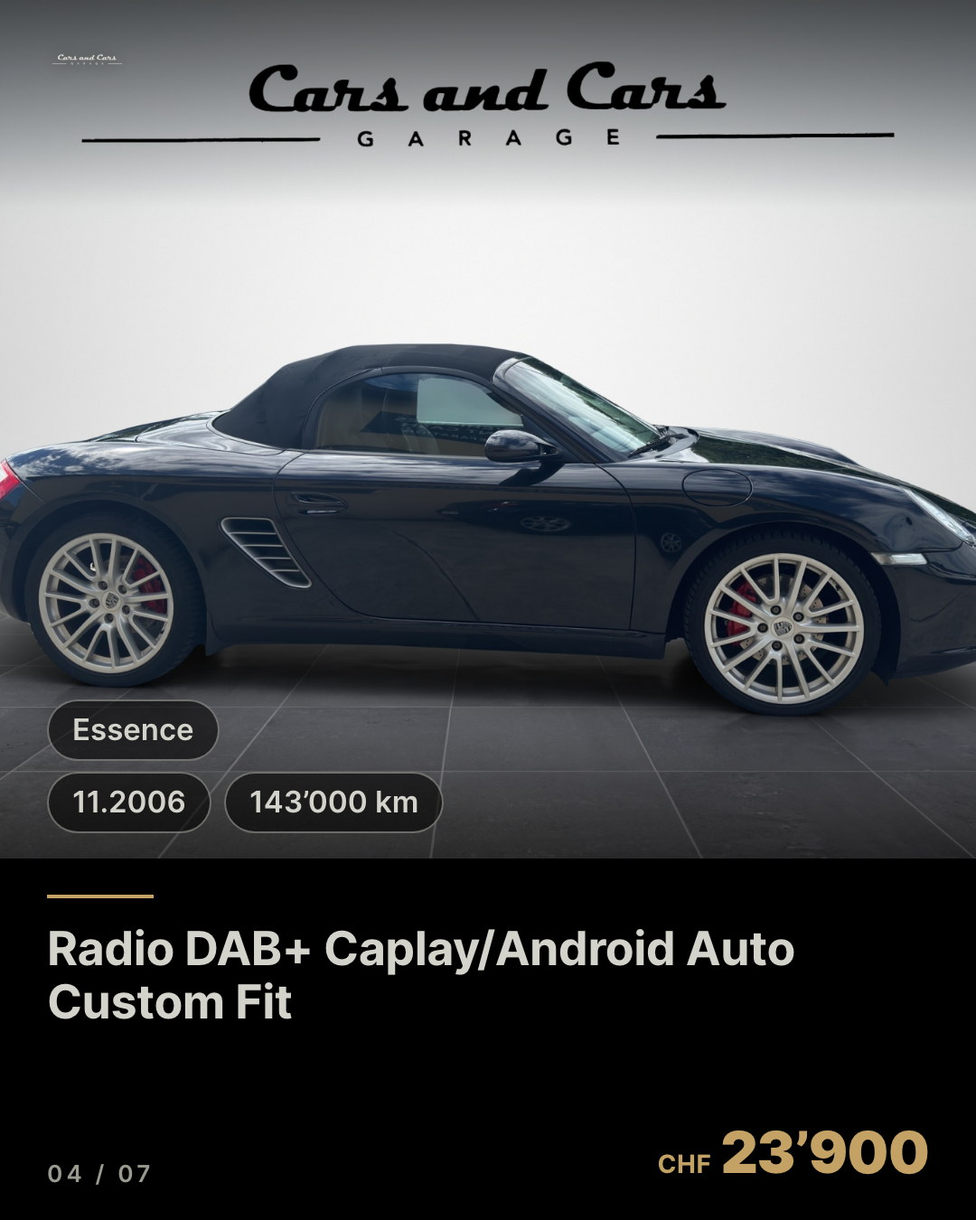
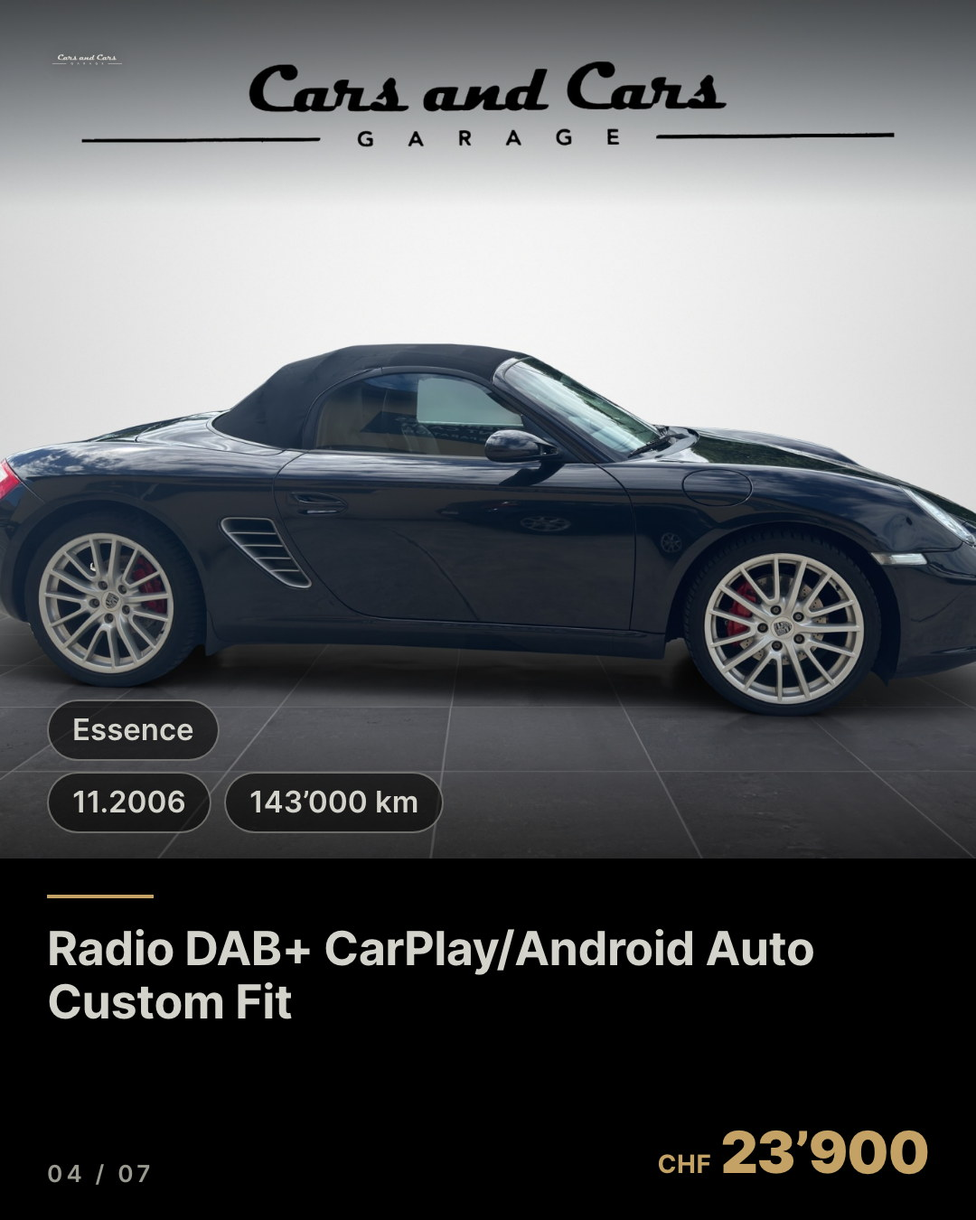
Aperçu : fautes des annonces corrigées dans les visuels (Troy→Treuil HUMBAUR, Caplay→CarPlay Boxster S)

Changed region(s): [[0.3972, 0.7467, 0.825, 0.8089]]

diff --git a/echeancier.html b/echeancier.html
@@ -7,6 +7,6 @@
 <link rel="stylesheet" href="posts.css">
 </head><body>
 <div class="page">
-<header class="entete-page"><p class="sur">Cars and Cars · Instagram et Facebook</p><h1>Le calendrier des publications</h1><p class="chapo">Dans l&#x27;ordre : chaque voiture part d&#x27;abord en carrousel (photos), puis en Reel (vidéo avec musique) le lendemain à midi. Tout part automatiquement.</p></header><nav class="nav"><a href="programme.html" class="">Les voitures</a><a href="echeancier.html" class="on">Le calendrier</a></nav><p class="maj">Page mise à jour le 17.09.2026 à 8h43</p><section class="chiffres"><div class="chiffre"><b>13</b><span>carrousels à venir</span></div><div class="chiffre"><b>13</b><span>Reels à venir</span></div><div class="chiffre"><b>3</b><span>voitures par semaine</span></div><div class="chiffre"><b>17.10</b><span>dernière date prévue</span></div></section><div class="sem">semaine du 14 septembre</div><div class="ligne passe"><div class="quand">mercredi 16 septembre<small>16h26</small></div><div class="quoi"><b>MINI Countryman John Cooper Works ALL4 Steptronic</b><span>CHF 31&#x27;900 · photos</span></div><span class="type t-publie">PUBLIÉ</span></div><div class="ligne passe"><div class="quand">mercredi 16 septembre<small>17h54</small></div><div class="quoi"><b>MINI Countryman John Cooper Works ALL4 Steptronic</b><span>CHF 31&#x27;900 · vidéo avec musique</span></div><span class="type t-publie">PUBLIÉ</span></div><div class="ligne"><div class="quand">vendredi 18 septembre<small>18h00</small></div><div class="quoi"><b>Humbaur HUT3500</b><span>CHF 8&#x27;500 au lieu de CHF 9&#x27;500 · photos</span></div><span class="type t-baisse">BAISSE DE PRIX</span></div><div class="ligne"><div class="quand">samedi 19 septembre<small>12h00</small></div><div class="quoi"><b>Humbaur HUT3500</b><span>CHF 8&#x27;500 au lieu de CHF 9&#x27;500 · vidéo avec musique</span></div><span class="type t-reel">REEL</span></div><div class="sem">semaine du 21 septembre</div><div class="ligne"><div class="quand">lundi 21 septembre<small>9h00</small></div><div class="quoi"><b>Alfa Romeo Stelvio 2.9 V6 Quadrifoglio Q4 Automatic</b><span>CHF 38&#x27;900 · photos</span></div><span class="type t-carrousel">CARROUSEL</span></div><div class="ligne"><div class="quand">mardi 22 septembre<small>12h00</small></div><div class="quoi"><b>Alfa Romeo Stelvio 2.9 V6 Quadrifoglio Q4 Automatic</b><span>CHF 38&#x27;900 · vidéo avec musique</span></div><span class="type t-reel">REEL</span></div><div class="ligne"><div class="quand">mercredi 23 septembre<small>18h00</small></div><div class="quoi"><b>Renault Espace 1.6 dCi Intens EDC</b><span>CHF 13&#x27;900 · photos</span></div><span class="type t-carrousel">CARROUSEL</span></div><div class="ligne"><div class="quand">jeudi 24 septembre<small>12h00</small></div><div class="quoi"><b>Renault Espace 1.6 dCi Intens EDC</b><span>CHF 13&#x27;900 · vidéo avec musique</span></div><span class="type t-reel">REEL</span></div><div class="ligne"><div class="quand">vendredi 25 septembre<small>18h00</small></div><div class="quoi"><b>Porsche Macan GTS PDK</b><span>CHF 27&#x27;500 · photos</span></div><span class="type t-carrousel">CARROUSEL</span></div><div class="ligne"><div class="quand">samedi 26 septembre<small>12h00</small></div><div class="quoi"><b>Porsche Macan GTS PDK</b><span>CHF 27&#x27;500 · vidéo avec musique</span></div><span class="type t-reel">REEL</span></div><div class="sem">semaine du 28 septembre</div><div class="ligne"><div class="quand">lundi 28 septembre<small>9h00</small></div><div class="quoi"><b>Peugeot 208 1.2 PureTech Active</b><span>CHF 15&#x27;900 · photos</span></div><span class="type t-carrousel">CARROUSEL</span></div><div class="ligne"><div class="quand">mardi 29 septembre<small>12h00</small></div><div class="quoi"><b>Peugeot 208 1.2 PureTech Active</b><span>CHF 15&#x27;900 · vidéo avec musique</span></div><span class="type t-reel">REEL</span></div><div class="ligne"><div class="quand">mercredi 30 septembre<small>18h00</small></div><div class="quoi"><b>VW Käfer</b><span>CHF 24&#x27;900 · photos</span></div><span class="type t-carrousel">CARROUSEL</span></div><div class="ligne"><div class="quand">jeudi 1 octobre<small>12h00</small></div><div class="quoi"><b>VW Käfer</b><span>CHF 24&#x27;900 · vidéo avec musique</span></div><span class="type t-reel">REEL</span></div><div class="ligne"><div class="quand">vendredi 2 octobre<small>18h00</small></div><div class="quoi"><b>Saab 9-5 2.3t Vector</b><span>CHF 5&#x27;900 · photos</span></div><span class="type t-carrousel">CARROUSEL</span></div><div class="ligne"><div class="quand">samedi 3 octobre<small>12h00</small></div><div class="quoi"><b>Saab 9-5 2.3t Vector</b><span>CHF 5&#x27;900 · vidéo avec musique</span></div><span class="type t-reel">REEL</span></div><div class="sem">semaine du 5 octobre</div><div class="ligne"><div class="quand">lundi 5 octobre<small>9h00</small></div><div class="quoi"><b>Mercedes-Benz GLC 350 e AMG Line 4Matic 7G-Tronic</b><span>CHF 23&#x27;900 · photos</span></div><span class="type t-carrousel">CARROUSEL</span></div><div class="ligne"><div class="quand">mardi 6 octobre<small>12h00</small></div><div class="quoi"><b>Mercedes-Benz GLC 350 e AMG Line 4Matic 7G-Tronic</b><span>CHF 23&#x27;900 · vidéo avec musique</span></div><span class="type t-reel">REEL</span></div><div class="ligne"><div class="quand">mercredi 7 octobre<small>18h00</small></div><div class="quoi"><b>Opel Mokka 1.2 Direct Injection Turbo GS Line Aut.</b><span>CHF 14&#x27;500 · photos</span></div><span class="type t-carrousel">CARROUSEL</span></div><div class="ligne"><div class="quand">jeudi 8 octobre<small>12h00</small></div><div class="quoi"><b>Opel Mokka 1.2 Direct Injection Turbo GS Line Aut.</b><span>CHF 14&#x27;500 · vidéo avec musique</span></div><span class="type t-reel">REEL</span></div><div class="ligne"><div class="quand">vendredi 9 octobre<small>18h00</small></div><div class="quoi"><b>Porsche Boxster S 3.4</b><span>CHF 23&#x27;900 · photos</span></div><span class="type t-carrousel">CARROUSEL</span></div><div class="ligne"><div class="quand">samedi 10 octobre<small>12h00</small></div><div class="quoi"><b>Porsche Boxster S 3.4</b><span>CHF 23&#x27;900 · vidéo avec musique</span></div><span class="type t-reel">REEL</span></div><div class="sem">semaine du 12 octobre</div><div class="ligne"><div class="quand">lundi 12 octobre<small>9h00</small></div><div class="quoi"><b>Fiat Barchetta 1.8 ABS</b><span>CHF 4&#x27;900 · photos</span></div><span class="type t-carrousel">CARROUSEL</span></div><div class="ligne"><div class="quand">mardi 13 octobre<small>12h00</small></div><div class="quoi"><b>Fiat Barchetta 1.8 ABS</b><span>CHF 4&#x27;900 · vidéo avec musique</span></div><span class="type t-reel">REEL</span></div><div class="ligne"><div class="quand">mercredi 14 octobre<small>18h00</small></div><div class="quoi"><b>Land Rover Range Rover Evoque R-Dynamic P 300e AB AT8</b><span>CHF 24&#x27;900 · photos</span></div><span class="type t-carrousel">CARROUSEL</span></div><div class="ligne"><div class="quand">jeudi 15 octobre<small>12h00</small></div><div class="quoi"><b>Land Rover Range Rover Evoque R-Dynamic P 300e AB AT8</b><span>CHF 24&#x27;900 · vidéo avec musique</span></div><span class="type t-reel">REEL</span></div><div class="ligne"><div class="quand">vendredi 16 octobre<small>18h00</small></div><div class="quoi"><b>Fiat 595 1.4 16V Turbo Abarth Competizione Dualogic</b><span>CHF 24&#x27;900 · photos</span></div><span class="type t-carrousel">CARROUSEL</span></div><div class="ligne"><div class="quand">samedi 17 octobre<small>12h00</small></div><div class="quoi"><b>Fiat 595 1.4 16V Turbo Abarth Competizione Dualogic</b><span>CHF 24&#x27;900 · vidéo avec musique</span></div><span class="type t-reel">REEL</span></div><p class="pied">Page mise à jour le 17.09.2026 à 8h43 · calendrier du 16.09 à 18h14 · annonces AutoScout24 relevées le 16.09 à 18h26</p>
+<header class="entete-page"><p class="sur">Cars and Cars · Instagram et Facebook</p><h1>Le calendrier des publications</h1><p class="chapo">Dans l&#x27;ordre : chaque voiture part d&#x27;abord en carrousel (photos), puis en Reel (vidéo avec musique) le lendemain à midi. Tout part automatiquement.</p></header><nav class="nav"><a href="programme.html" class="">Les voitures</a><a href="echeancier.html" class="on">Le calendrier</a></nav><p class="maj">Page mise à jour le 17.09.2026 à 8h48</p><section class="chiffres"><div class="chiffre"><b>13</b><span>carrousels à venir</span></div><div class="chiffre"><b>13</b><span>Reels à venir</span></div><div class="chiffre"><b>3</b><span>voitures par semaine</span></div><div class="chiffre"><b>17.10</b><span>dernière date prévue</span></div></section><div class="sem">semaine du 14 septembre</div><div class="ligne passe"><div class="quand">mercredi 16 septembre<small>16h26</small></div><div class="quoi"><b>MINI Countryman John Cooper Works ALL4 Steptronic</b><span>CHF 31&#x27;900 · photos</span></div><span class="type t-publie">PUBLIÉ</span></div><div class="ligne passe"><div class="quand">mercredi 16 septembre<small>17h54</small></div><div class="quoi"><b>MINI Countryman John Cooper Works ALL4 Steptronic</b><span>CHF 31&#x27;900 · vidéo avec musique</span></div><span class="type t-publie">PUBLIÉ</span></div><div class="ligne"><div class="quand">vendredi 18 septembre<small>18h00</small></div><div class="quoi"><b>Humbaur HUT3500</b><span>CHF 8&#x27;500 au lieu de CHF 9&#x27;500 · photos</span></div><span class="type t-baisse">BAISSE DE PRIX</span></div><div class="ligne"><div class="quand">samedi 19 septembre<small>12h00</small></div><div class="quoi"><b>Humbaur HUT3500</b><span>CHF 8&#x27;500 au lieu de CHF 9&#x27;500 · vidéo avec musique</span></div><span class="type t-reel">REEL</span></div><div class="sem">semaine du 21 septembre</div><div class="ligne"><div class="quand">lundi 21 septembre<small>9h00</small></div><div class="quoi"><b>Alfa Romeo Stelvio 2.9 V6 Quadrifoglio Q4 Automatic</b><span>CHF 38&#x27;900 · photos</span></div><span class="type t-carrousel">CARROUSEL</span></div><div class="ligne"><div class="quand">mardi 22 septembre<small>12h00</small></div><div class="quoi"><b>Alfa Romeo Stelvio 2.9 V6 Quadrifoglio Q4 Automatic</b><span>CHF 38&#x27;900 · vidéo avec musique</span></div><span class="type t-reel">REEL</span></div><div class="ligne"><div class="quand">mercredi 23 septembre<small>18h00</small></div><div class="quoi"><b>Renault Espace 1.6 dCi Intens EDC</b><span>CHF 13&#x27;900 · photos</span></div><span class="type t-carrousel">CARROUSEL</span></div><div class="ligne"><div class="quand">jeudi 24 septembre<small>12h00</small></div><div class="quoi"><b>Renault Espace 1.6 dCi Intens EDC</b><span>CHF 13&#x27;900 · vidéo avec musique</span></div><span class="type t-reel">REEL</span></div><div class="ligne"><div class="quand">vendredi 25 septembre<small>18h00</small></div><div class="quoi"><b>Porsche Macan GTS PDK</b><span>CHF 27&#x27;500 · photos</span></div><span class="type t-carrousel">CARROUSEL</span></div><div class="ligne"><div class="quand">samedi 26 septembre<small>12h00</small></div><div class="quoi"><b>Porsche Macan GTS PDK</b><span>CHF 27&#x27;500 · vidéo avec musique</span></div><span class="type t-reel">REEL</span></div><div class="sem">semaine du 28 septembre</div><div class="ligne"><div class="quand">lundi 28 septembre<small>9h00</small></div><div class="quoi"><b>Peugeot 208 1.2 PureTech Active</b><span>CHF 15&#x27;900 · photos</span></div><span class="type t-carrousel">CARROUSEL</span></div><div class="ligne"><div class="quand">mardi 29 septembre<small>12h00</small></div><div class="quoi"><b>Peugeot 208 1.2 PureTech Active</b><span>CHF 15&#x27;900 · vidéo avec musique</span></div><span class="type t-reel">REEL</span></div><div class="ligne"><div class="quand">mercredi 30 septembre<small>18h00</small></div><div class="quoi"><b>VW Käfer</b><span>CHF 24&#x27;900 · photos</span></div><span class="type t-carrousel">CARROUSEL</span></div><div class="ligne"><div class="quand">jeudi 1 octobre<small>12h00</small></div><div class="quoi"><b>VW Käfer</b><span>CHF 24&#x27;900 · vidéo avec musique</span></div><span class="type t-reel">REEL</span></div><div class="ligne"><div class="quand">vendredi 2 octobre<small>18h00</small></div><div class="quoi"><b>Saab 9-5 2.3t Vector</b><span>CHF 5&#x27;900 · photos</span></div><span class="type t-carrousel">CARROUSEL</span></div><div class="ligne"><div class="quand">samedi 3 octobre<small>12h00</small></div><div class="quoi"><b>Saab 9-5 2.3t Vector</b><span>CHF 5&#x27;900 · vidéo avec musique</span></div><span class="type t-reel">REEL</span></div><div class="sem">semaine du 5 octobre</div><div class="ligne"><div class="quand">lundi 5 octobre<small>9h00</small></div><div class="quoi"><b>Mercedes-Benz GLC 350 e AMG Line 4Matic 7G-Tronic</b><span>CHF 23&#x27;900 · photos</span></div><span class="type t-carrousel">CARROUSEL</span></div><div class="ligne"><div class="quand">mardi 6 octobre<small>12h00</small></div><div class="quoi"><b>Mercedes-Benz GLC 350 e AMG Line 4Matic 7G-Tronic</b><span>CHF 23&#x27;900 · vidéo avec musique</span></div><span class="type t-reel">REEL</span></div><div class="ligne"><div class="quand">mercredi 7 octobre<small>18h00</small></div><div class="quoi"><b>Opel Mokka 1.2 Direct Injection Turbo GS Line Aut.</b><span>CHF 14&#x27;500 · photos</span></div><span class="type t-carrousel">CARROUSEL</span></div><div class="ligne"><div class="quand">jeudi 8 octobre<small>12h00</small></div><div class="quoi"><b>Opel Mokka 1.2 Direct Injection Turbo GS Line Aut.</b><span>CHF 14&#x27;500 · vidéo avec musique</span></div><span class="type t-reel">REEL</span></div><div class="ligne"><div class="quand">vendredi 9 octobre<small>18h00</small></div><div class="quoi"><b>Porsche Boxster S 3.4</b><span>CHF 23&#x27;900 · photos</span></div><span class="type t-carrousel">CARROUSEL</span></div><div class="ligne"><div class="quand">samedi 10 octobre<small>12h00</small></div><div class="quoi"><b>Porsche Boxster S 3.4</b><span>CHF 23&#x27;900 · vidéo avec musique</span></div><span class="type t-reel">REEL</span></div><div class="sem">semaine du 12 octobre</div><div class="ligne"><div class="quand">lundi 12 octobre<small>9h00</small></div><div class="quoi"><b>Fiat Barchetta 1.8 ABS</b><span>CHF 4&#x27;900 · photos</span></div><span class="type t-carrousel">CARROUSEL</span></div><div class="ligne"><div class="quand">mardi 13 octobre<small>12h00</small></div><div class="quoi"><b>Fiat Barchetta 1.8 ABS</b><span>CHF 4&#x27;900 · vidéo avec musique</span></div><span class="type t-reel">REEL</span></div><div class="ligne"><div class="quand">mercredi 14 octobre<small>18h00</small></div><div class="quoi"><b>Land Rover Range Rover Evoque R-Dynamic P 300e AB AT8</b><span>CHF 24&#x27;900 · photos</span></div><span class="type t-carrousel">CARROUSEL</span></div><div class="ligne"><div class="quand">jeudi 15 octobre<small>12h00</small></div><div class="quoi"><b>Land Rover Range Rover Evoque R-Dynamic P 300e AB AT8</b><span>CHF 24&#x27;900 · vidéo avec musique</span></div><span class="type t-reel">REEL</span></div><div class="ligne"><div class="quand">vendredi 16 octobre<small>18h00</small></div><div class="quoi"><b>Fiat 595 1.4 16V Turbo Abarth Competizione Dualogic</b><span>CHF 24&#x27;900 · photos</span></div><span class="type t-carrousel">CARROUSEL</span></div><div class="ligne"><div class="quand">samedi 17 octobre<small>12h00</small></div><div class="quoi"><b>Fiat 595 1.4 16V Turbo Abarth Competizione Dualogic</b><span>CHF 24&#x27;900 · vidéo avec musique</span></div><span class="type t-reel">REEL</span></div><p class="pied">Page mise à jour le 17.09.2026 à 8h48 · calendrier du 16.09 à 18h14 · annonces AutoScout24 relevées le 16.09 à 18h26</p>
 </div>
 </body></html>

diff --git a/index.html b/index.html
@@ -7,7 +7,7 @@
 <link rel="stylesheet" href="posts.css">
 </head><body>
 <div class="page">
-<header class="entete-page"><p class="sur">Cars and Cars · Instagram et Facebook</p><h1>Ce qui part sur Instagram et Facebook</h1><p class="chapo">Les voitures en vente partent toutes seules, aux dates indiquées : tu n&#x27;as rien à faire. Si un prix change ou si une annonce disparaît d&#x27;AutoScout24, rien ne part avec un prix faux et Stefano est prévenu.</p></header><nav class="nav"><a href="programme.html" class="on">Les voitures</a><a href="echeancier.html" class="">Le calendrier</a></nav><p class="maj">Page mise à jour le 17.09.2026 à 8h43</p><section class="chiffres"><div class="chiffre"><b>14</b><span>annonces en vente</span></div><div class="chiffre"><b>1</b><span>déjà publiée(s)</span></div><div class="chiffre"><b>13</b><span>programmées</span></div><div class="chiffre"><b>14</b><span>Reels prêts</span></div></section><p class="prochaine">Prochaine publication : <b>Baisse de prix · Humbaur HUT3500</b>, vendredi 18 septembre à 18h00.</p><main><article class="voiture" id="v20622081"><div class="tete"><span class="pastille p-publie">Publiée</span><h2>MINI Countryman John Cooper Works ALL4 Steptronic</h2><p class="prix">CHF 31&#x27;900</p><ul class="dates"><li class="fait"><b>Carrousel :</b> publié le 16.09</li><li class="fait"><b>Reel</b> publié le 16.09</li></ul></div><div class="bande"><div class="dia"><img src="img/20622081_MINI_Countryman_John_Cooper_Works___1_hero.jpg" alt="Image 1 sur 7 du carrousel" width="1080" height="1350" loading="eager"><span>1 / 7</span></div><div class="dia"><img src="img/20622081_MINI_Countryman_John_Cooper_Works___2_photo.jpg" alt="Image 2 sur 7 du carrousel" width="1080" height="1350" loading="eager"><span>2 / 7</span></div><div class="dia"><img src="img/20622081_MINI_Countryman_John_Cooper_Works___3_photo.jpg" alt="Image 3 sur 7 du carrousel" width="1080" height="1350" loading="lazy"><span>3 / 7</span></div><div class="dia"><img src="img/20622081_MINI_Countryman_John_Cooper_Works___4_photo.jpg" alt="Image 4 sur 7 du carrousel" width="1080" height="1350" loading="lazy"><span>4 / 7</span></div><div class="dia"><img src="img/20622081_MINI_Countryman_John_Cooper_Works___5_points_forts.jpg" alt="Image 5 sur 7 du carrousel" width="1080" height="1350" loading="lazy"><span>5 / 7</span></div><div class="dia"><img src="img/20622081_MINI_Countryman_John_Cooper_Works___6_technique.jpg" alt="Image 6 sur 7 du carrousel" width="1080" height="1350" loading="lazy"><span>6 / 7</span></div><div class="dia"><img src="img/20622081_MINI_Countryman_John_Cooper_Works___7_cta.jpg" alt="Image 7 sur 7 du carrousel" width="1080" height="1350" loading="lazy"><span>7 / 7</span></div></div><p class="glisser">7 images · faire glisser pour les voir toutes</p><div class="reel"><h3>Le Reel</h3><video controls playsinline preload="none" poster="affiches/reel_20622081.jpg" src="img/REEL_20622081__reel_20622081.mp4"></video><p>Musique : « Go Cart - Drop Mix », Kevin MacLeod (CC BY 4.0)</p></div><details class="texte"><summary>Texte publié avec les images</summary><div class="legende">🚗 MINI COUNTRYMAN — CHF 31&#x27;900
+<header class="entete-page"><p class="sur">Cars and Cars · Instagram et Facebook</p><h1>Ce qui part sur Instagram et Facebook</h1><p class="chapo">Les voitures en vente partent toutes seules, aux dates indiquées : tu n&#x27;as rien à faire. Si un prix change ou si une annonce disparaît d&#x27;AutoScout24, rien ne part avec un prix faux et Stefano est prévenu.</p></header><nav class="nav"><a href="programme.html" class="on">Les voitures</a><a href="echeancier.html" class="">Le calendrier</a></nav><p class="maj">Page mise à jour le 17.09.2026 à 8h48</p><section class="chiffres"><div class="chiffre"><b>14</b><span>annonces en vente</span></div><div class="chiffre"><b>1</b><span>déjà publiée(s)</span></div><div class="chiffre"><b>13</b><span>programmées</span></div><div class="chiffre"><b>14</b><span>Reels prêts</span></div></section><p class="prochaine">Prochaine publication : <b>Baisse de prix · Humbaur HUT3500</b>, vendredi 18 septembre à 18h00.</p><main><article class="voiture" id="v20622081"><div class="tete"><span class="pastille p-publie">Publiée</span><h2>MINI Countryman John Cooper Works ALL4 Steptronic</h2><p class="prix">CHF 31&#x27;900</p><ul class="dates"><li class="fait"><b>Carrousel :</b> publié le 16.09</li><li class="fait"><b>Reel</b> publié le 16.09</li></ul></div><div class="bande"><div class="dia"><img src="img/20622081_MINI_Countryman_John_Cooper_Works___1_hero.jpg" alt="Image 1 sur 7 du carrousel" width="1080" height="1350" loading="eager"><span>1 / 7</span></div><div class="dia"><img src="img/20622081_MINI_Countryman_John_Cooper_Works___2_photo.jpg" alt="Image 2 sur 7 du carrousel" width="1080" height="1350" loading="eager"><span>2 / 7</span></div><div class="dia"><img src="img/20622081_MINI_Countryman_John_Cooper_Works___3_photo.jpg" alt="Image 3 sur 7 du carrousel" width="1080" height="1350" loading="lazy"><span>3 / 7</span></div><div class="dia"><img src="img/20622081_MINI_Countryman_John_Cooper_Works___4_photo.jpg" alt="Image 4 sur 7 du carrousel" width="1080" height="1350" loading="lazy"><span>4 / 7</span></div><div class="dia"><img src="img/20622081_MINI_Countryman_John_Cooper_Works___5_points_forts.jpg" alt="Image 5 sur 7 du carrousel" width="1080" height="1350" loading="lazy"><span>5 / 7</span></div><div class="dia"><img src="img/20622081_MINI_Countryman_John_Cooper_Works___6_technique.jpg" alt="Image 6 sur 7 du carrousel" width="1080" height="1350" loading="lazy"><span>6 / 7</span></div><div class="dia"><img src="img/20622081_MINI_Countryman_John_Cooper_Works___7_cta.jpg" alt="Image 7 sur 7 du carrousel" width="1080" height="1350" loading="lazy"><span>7 / 7</span></div></div><p class="glisser">7 images · faire glisser pour les voir toutes</p><div class="reel"><h3>Le Reel</h3><video controls playsinline preload="none" poster="affiches/reel_20622081.jpg" src="img/REEL_20622081__reel_20622081.mp4"></video><p>Musique : « Go Cart - Drop Mix », Kevin MacLeod (CC BY 4.0)</p></div><details class="texte"><summary>Texte publié avec les images</summary><div class="legende">🚗 MINI COUNTRYMAN — CHF 31&#x27;900
 2022 · 63&#x27;700 km · Essence · Automatique
 
 Voiture FULL options - super état - De 1er main - Tous les services suivis - 2 jeux de pneus - Expertisée du jour - Garantie 12 mois
@@ -19,7 +19,7 @@ Chemin de Mon-Repos 1, 1033 Cheseaux-sur-Lausanne
 Humbaur HUT3500 — CHF 8&#x27;500 au lieu de CHF 9&#x27;500
 2017 · Remorque
 
-Remorque Basculante En parfait état expertisée - charge totale 3500 kg - Troy Electrique avec télécommande
+Remorque Basculante En parfait état expertisée - charge totale 3500 kg - Treuil Electrique avec télécommande
 
 👉 Visite sur rendez-vous · 021 731 38 70
 Chemin de Mon-Repos 1, 1033 Cheseaux-sur-Lausanne
@@ -89,7 +89,7 @@ Chemin de Mon-Repos 1, 1033 Cheseaux-sur-Lausanne
 #carsandcars #occasion #garage #cheseaux #lausanne #opel</div></details></article><article class="voiture" id="v20548427"><div class="tete"><span class="pastille p-programme">Programmée</span><h2>Porsche Boxster S 3.4</h2><p class="prix">CHF 23&#x27;900</p><ul class="dates"><li class=""><b>Carrousel :</b> publication automatique le vendredi 9 octobre à 18h00</li><li class=""><b>Reel</b> le samedi 10 octobre à 12h00</li></ul></div><div class="bande"><div class="dia"><img src="img/20548427_PORSCHE_Boxster_S_3_4__1_hero.jpg" alt="Image 1 sur 7 du carrousel" width="1080" height="1350" loading="eager"><span>1 / 7</span></div><div class="dia"><img src="img/20548427_PORSCHE_Boxster_S_3_4__2_photo.jpg" alt="Image 2 sur 7 du carrousel" width="1080" height="1350" loading="eager"><span>2 / 7</span></div><div class="dia"><img src="img/20548427_PORSCHE_Boxster_S_3_4__3_photo.jpg" alt="Image 3 sur 7 du carrousel" width="1080" height="1350" loading="lazy"><span>3 / 7</span></div><div class="dia"><img src="img/20548427_PORSCHE_Boxster_S_3_4__4_photo.jpg" alt="Image 4 sur 7 du carrousel" width="1080" height="1350" loading="lazy"><span>4 / 7</span></div><div class="dia"><img src="img/20548427_PORSCHE_Boxster_S_3_4__5_points_forts.jpg" alt="Image 5 sur 7 du carrousel" width="1080" height="1350" loading="lazy"><span>5 / 7</span></div><div class="dia"><img src="img/20548427_PORSCHE_Boxster_S_3_4__6_technique.jpg" alt="Image 6 sur 7 du carrousel" width="1080" height="1350" loading="lazy"><span>6 / 7</span></div><div class="dia"><img src="img/20548427_PORSCHE_Boxster_S_3_4__7_cta.jpg" alt="Image 7 sur 7 du carrousel" width="1080" height="1350" loading="lazy"><span>7 / 7</span></div></div><p class="glisser">7 images · faire glisser pour les voir toutes</p><div class="reel"><h3>Le Reel</h3><video controls playsinline preload="none" poster="affiches/reel_20548427.jpg" src="img/REEL_20548427__reel_20548427.mp4"></video><p>Musique : « Riptide », Kevin MacLeod (CC BY 4.0)</p></div><details class="texte"><summary>Texte publié avec les images</summary><div class="legende">🚗 Porsche Boxster S 3.4 — CHF 23&#x27;900
 2006 · 143&#x27;000 km · Essence · Manuelle
 
-Voiture en super état - Services suivis - Expertisée du Jour - Radio DAB+ Caplay/Android Auto Custom Fit
+Voiture en super état - Services suivis - Expertisée du Jour - Radio DAB+ CarPlay/Android Auto Custom Fit
 
 👉 Essai sur rendez-vous · 021 731 38 70
 Chemin de Mon-Repos 1, 1033 Cheseaux-sur-Lausanne
@@ -118,6 +118,6 @@ Voiture à l&#x27;état de neuf - Service suivis - expertisée du jour - Garanti
 👉 Essai sur rendez-vous · 021 731 38 70
 Chemin de Mon-Repos 1, 1033 Cheseaux-sur-Lausanne
 
-#carsandcars #occasion #garage #cheseaux #lausanne #fiat</div></details></article></main><section class="hors"><h2>Hors vente : rien ne part sans ton accord</h2><p>L&#x27;atelier, une sortie, une pièce d&#x27;exception : ces publications-là ne partent jamais toutes seules. Stefano te demandera ton avis avant. Une photo, une idée, une remarque : réponds-lui simplement comme d&#x27;habitude.</p></section><p class="pied">Page mise à jour le 17.09.2026 à 8h43 · calendrier du 16.09 à 18h14 · annonces AutoScout24 relevées le 16.09 à 18h26</p>
+#carsandcars #occasion #garage #cheseaux #lausanne #fiat</div></details></article></main><section class="hors"><h2>Hors vente : rien ne part sans ton accord</h2><p>L&#x27;atelier, une sortie, une pièce d&#x27;exception : ces publications-là ne partent jamais toutes seules. Stefano te demandera ton avis avant. Une photo, une idée, une remarque : réponds-lui simplement comme d&#x27;habitude.</p></section><p class="pied">Page mise à jour le 17.09.2026 à 8h48 · calendrier du 16.09 à 18h14 · annonces AutoScout24 relevées le 16.09 à 18h26</p>
 </div>
 </body></html>

diff --git a/programme.html b/programme.html
@@ -7,7 +7,7 @@
 <link rel="stylesheet" href="posts.css">
 </head><body>
 <div class="page">
-<header class="entete-page"><p class="sur">Cars and Cars · Instagram et Facebook</p><h1>Ce qui part sur Instagram et Facebook</h1><p class="chapo">Les voitures en vente partent toutes seules, aux dates indiquées : tu n&#x27;as rien à faire. Si un prix change ou si une annonce disparaît d&#x27;AutoScout24, rien ne part avec un prix faux et Stefano est prévenu.</p></header><nav class="nav"><a href="programme.html" class="on">Les voitures</a><a href="echeancier.html" class="">Le calendrier</a></nav><p class="maj">Page mise à jour le 17.09.2026 à 8h43</p><section class="chiffres"><div class="chiffre"><b>14</b><span>annonces en vente</span></div><div class="chiffre"><b>1</b><span>déjà publiée(s)</span></div><div class="chiffre"><b>13</b><span>programmées</span></div><div class="chiffre"><b>14</b><span>Reels prêts</span></div></section><p class="prochaine">Prochaine publication : <b>Baisse de prix · Humbaur HUT3500</b>, vendredi 18 septembre à 18h00.</p><main><article class="voiture" id="v20622081"><div class="tete"><span class="pastille p-publie">Publiée</span><h2>MINI Countryman John Cooper Works ALL4 Steptronic</h2><p class="prix">CHF 31&#x27;900</p><ul class="dates"><li class="fait"><b>Carrousel :</b> publié le 16.09</li><li class="fait"><b>Reel</b> publié le 16.09</li></ul></div><div class="bande"><div class="dia"><img src="img/20622081_MINI_Countryman_John_Cooper_Works___1_hero.jpg" alt="Image 1 sur 7 du carrousel" width="1080" height="1350" loading="eager"><span>1 / 7</span></div><div class="dia"><img src="img/20622081_MINI_Countryman_John_Cooper_Works___2_photo.jpg" alt="Image 2 sur 7 du carrousel" width="1080" height="1350" loading="eager"><span>2 / 7</span></div><div class="dia"><img src="img/20622081_MINI_Countryman_John_Cooper_Works___3_photo.jpg" alt="Image 3 sur 7 du carrousel" width="1080" height="1350" loading="lazy"><span>3 / 7</span></div><div class="dia"><img src="img/20622081_MINI_Countryman_John_Cooper_Works___4_photo.jpg" alt="Image 4 sur 7 du carrousel" width="1080" height="1350" loading="lazy"><span>4 / 7</span></div><div class="dia"><img src="img/20622081_MINI_Countryman_John_Cooper_Works___5_points_forts.jpg" alt="Image 5 sur 7 du carrousel" width="1080" height="1350" loading="lazy"><span>5 / 7</span></div><div class="dia"><img src="img/20622081_MINI_Countryman_John_Cooper_Works___6_technique.jpg" alt="Image 6 sur 7 du carrousel" width="1080" height="1350" loading="lazy"><span>6 / 7</span></div><div class="dia"><img src="img/20622081_MINI_Countryman_John_Cooper_Works___7_cta.jpg" alt="Image 7 sur 7 du carrousel" width="1080" height="1350" loading="lazy"><span>7 / 7</span></div></div><p class="glisser">7 images · faire glisser pour les voir toutes</p><div class="reel"><h3>Le Reel</h3><video controls playsinline preload="none" poster="affiches/reel_20622081.jpg" src="img/REEL_20622081__reel_20622081.mp4"></video><p>Musique : « Go Cart - Drop Mix », Kevin MacLeod (CC BY 4.0)</p></div><details class="texte"><summary>Texte publié avec les images</summary><div class="legende">🚗 MINI COUNTRYMAN — CHF 31&#x27;900
+<header class="entete-page"><p class="sur">Cars and Cars · Instagram et Facebook</p><h1>Ce qui part sur Instagram et Facebook</h1><p class="chapo">Les voitures en vente partent toutes seules, aux dates indiquées : tu n&#x27;as rien à faire. Si un prix change ou si une annonce disparaît d&#x27;AutoScout24, rien ne part avec un prix faux et Stefano est prévenu.</p></header><nav class="nav"><a href="programme.html" class="on">Les voitures</a><a href="echeancier.html" class="">Le calendrier</a></nav><p class="maj">Page mise à jour le 17.09.2026 à 8h48</p><section class="chiffres"><div class="chiffre"><b>14</b><span>annonces en vente</span></div><div class="chiffre"><b>1</b><span>déjà publiée(s)</span></div><div class="chiffre"><b>13</b><span>programmées</span></div><div class="chiffre"><b>14</b><span>Reels prêts</span></div></section><p class="prochaine">Prochaine publication : <b>Baisse de prix · Humbaur HUT3500</b>, vendredi 18 septembre à 18h00.</p><main><article class="voiture" id="v20622081"><div class="tete"><span class="pastille p-publie">Publiée</span><h2>MINI Countryman John Cooper Works ALL4 Steptronic</h2><p class="prix">CHF 31&#x27;900</p><ul class="dates"><li class="fait"><b>Carrousel :</b> publié le 16.09</li><li class="fait"><b>Reel</b> publié le 16.09</li></ul></div><div class="bande"><div class="dia"><img src="img/20622081_MINI_Countryman_John_Cooper_Works___1_hero.jpg" alt="Image 1 sur 7 du carrousel" width="1080" height="1350" loading="eager"><span>1 / 7</span></div><div class="dia"><img src="img/20622081_MINI_Countryman_John_Cooper_Works___2_photo.jpg" alt="Image 2 sur 7 du carrousel" width="1080" height="1350" loading="eager"><span>2 / 7</span></div><div class="dia"><img src="img/20622081_MINI_Countryman_John_Cooper_Works___3_photo.jpg" alt="Image 3 sur 7 du carrousel" width="1080" height="1350" loading="lazy"><span>3 / 7</span></div><div class="dia"><img src="img/20622081_MINI_Countryman_John_Cooper_Works___4_photo.jpg" alt="Image 4 sur 7 du carrousel" width="1080" height="1350" loading="lazy"><span>4 / 7</span></div><div class="dia"><img src="img/20622081_MINI_Countryman_John_Cooper_Works___5_points_forts.jpg" alt="Image 5 sur 7 du carrousel" width="1080" height="1350" loading="lazy"><span>5 / 7</span></div><div class="dia"><img src="img/20622081_MINI_Countryman_John_Cooper_Works___6_technique.jpg" alt="Image 6 sur 7 du carrousel" width="1080" height="1350" loading="lazy"><span>6 / 7</span></div><div class="dia"><img src="img/20622081_MINI_Countryman_John_Cooper_Works___7_cta.jpg" alt="Image 7 sur 7 du carrousel" width="1080" height="1350" loading="lazy"><span>7 / 7</span></div></div><p class="glisser">7 images · faire glisser pour les voir toutes</p><div class="reel"><h3>Le Reel</h3><video controls playsinline preload="none" poster="affiches/reel_20622081.jpg" src="img/REEL_20622081__reel_20622081.mp4"></video><p>Musique : « Go Cart - Drop Mix », Kevin MacLeod (CC BY 4.0)</p></div><details class="texte"><summary>Texte publié avec les images</summary><div class="legende">🚗 MINI COUNTRYMAN — CHF 31&#x27;900
 2022 · 63&#x27;700 km · Essence · Automatique
 
 Voiture FULL options - super état - De 1er main - Tous les services suivis - 2 jeux de pneus - Expertisée du jour - Garantie 12 mois
@@ -19,7 +19,7 @@ Chemin de Mon-Repos 1, 1033 Cheseaux-sur-Lausanne
 Humbaur HUT3500 — CHF 8&#x27;500 au lieu de CHF 9&#x27;500
 2017 · Remorque
 
-Remorque Basculante En parfait état expertisée - charge totale 3500 kg - Troy Electrique avec télécommande
+Remorque Basculante En parfait état expertisée - charge totale 3500 kg - Treuil Electrique avec télécommande
 
 👉 Visite sur rendez-vous · 021 731 38 70
 Chemin de Mon-Repos 1, 1033 Cheseaux-sur-Lausanne
@@ -89,7 +89,7 @@ Chemin de Mon-Repos 1, 1033 Cheseaux-sur-Lausanne
 #carsandcars #occasion #garage #cheseaux #lausanne #opel</div></details></article><article class="voiture" id="v20548427"><div class="tete"><span class="pastille p-programme">Programmée</span><h2>Porsche Boxster S 3.4</h2><p class="prix">CHF 23&#x27;900</p><ul class="dates"><li class=""><b>Carrousel :</b> publication automatique le vendredi 9 octobre à 18h00</li><li class=""><b>Reel</b> le samedi 10 octobre à 12h00</li></ul></div><div class="bande"><div class="dia"><img src="img/20548427_PORSCHE_Boxster_S_3_4__1_hero.jpg" alt="Image 1 sur 7 du carrousel" width="1080" height="1350" loading="eager"><span>1 / 7</span></div><div class="dia"><img src="img/20548427_PORSCHE_Boxster_S_3_4__2_photo.jpg" alt="Image 2 sur 7 du carrousel" width="1080" height="1350" loading="eager"><span>2 / 7</span></div><div class="dia"><img src="img/20548427_PORSCHE_Boxster_S_3_4__3_photo.jpg" alt="Image 3 sur 7 du carrousel" width="1080" height="1350" loading="lazy"><span>3 / 7</span></div><div class="dia"><img src="img/20548427_PORSCHE_Boxster_S_3_4__4_photo.jpg" alt="Image 4 sur 7 du carrousel" width="1080" height="1350" loading="lazy"><span>4 / 7</span></div><div class="dia"><img src="img/20548427_PORSCHE_Boxster_S_3_4__5_points_forts.jpg" alt="Image 5 sur 7 du carrousel" width="1080" height="1350" loading="lazy"><span>5 / 7</span></div><div class="dia"><img src="img/20548427_PORSCHE_Boxster_S_3_4__6_technique.jpg" alt="Image 6 sur 7 du carrousel" width="1080" height="1350" loading="lazy"><span>6 / 7</span></div><div class="dia"><img src="img/20548427_PORSCHE_Boxster_S_3_4__7_cta.jpg" alt="Image 7 sur 7 du carrousel" width="1080" height="1350" loading="lazy"><span>7 / 7</span></div></div><p class="glisser">7 images · faire glisser pour les voir toutes</p><div class="reel"><h3>Le Reel</h3><video controls playsinline preload="none" poster="affiches/reel_20548427.jpg" src="img/REEL_20548427__reel_20548427.mp4"></video><p>Musique : « Riptide », Kevin MacLeod (CC BY 4.0)</p></div><details class="texte"><summary>Texte publié avec les images</summary><div class="legende">🚗 Porsche Boxster S 3.4 — CHF 23&#x27;900
 2006 · 143&#x27;000 km · Essence · Manuelle
 
-Voiture en super état - Services suivis - Expertisée du Jour - Radio DAB+ Caplay/Android Auto Custom Fit
+Voiture en super état - Services suivis - Expertisée du Jour - Radio DAB+ CarPlay/Android Auto Custom Fit
 
 👉 Essai sur rendez-vous · 021 731 38 70
 Chemin de Mon-Repos 1, 1033 Cheseaux-sur-Lausanne
@@ -118,6 +118,6 @@ Voiture à l&#x27;état de neuf - Service suivis - expertisée du jour - Garanti
 👉 Essai sur rendez-vous · 021 731 38 70
 Chemin de Mon-Repos 1, 1033 Cheseaux-sur-Lausanne
 
-#carsandcars #occasion #garage #cheseaux #lausanne #fiat</div></details></article></main><section class="hors"><h2>Hors vente : rien ne part sans ton accord</h2><p>L&#x27;atelier, une sortie, une pièce d&#x27;exception : ces publications-là ne partent jamais toutes seules. Stefano te demandera ton avis avant. Une photo, une idée, une remarque : réponds-lui simplement comme d&#x27;habitude.</p></section><p class="pied">Page mise à jour le 17.09.2026 à 8h43 · calendrier du 16.09 à 18h14 · annonces AutoScout24 relevées le 16.09 à 18h26</p>
+#carsandcars #occasion #garage #cheseaux #lausanne #fiat</div></details></article></main><section class="hors"><h2>Hors vente : rien ne part sans ton accord</h2><p>L&#x27;atelier, une sortie, une pièce d&#x27;exception : ces publications-là ne partent jamais toutes seules. Stefano te demandera ton avis avant. Une photo, une idée, une remarque : réponds-lui simplement comme d&#x27;habitude.</p></section><p class="pied">Page mise à jour le 17.09.2026 à 8h48 · calendrier du 16.09 à 18h14 · annonces AutoScout24 relevées le 16.09 à 18h26</p>
 </div>
 </body></html>
